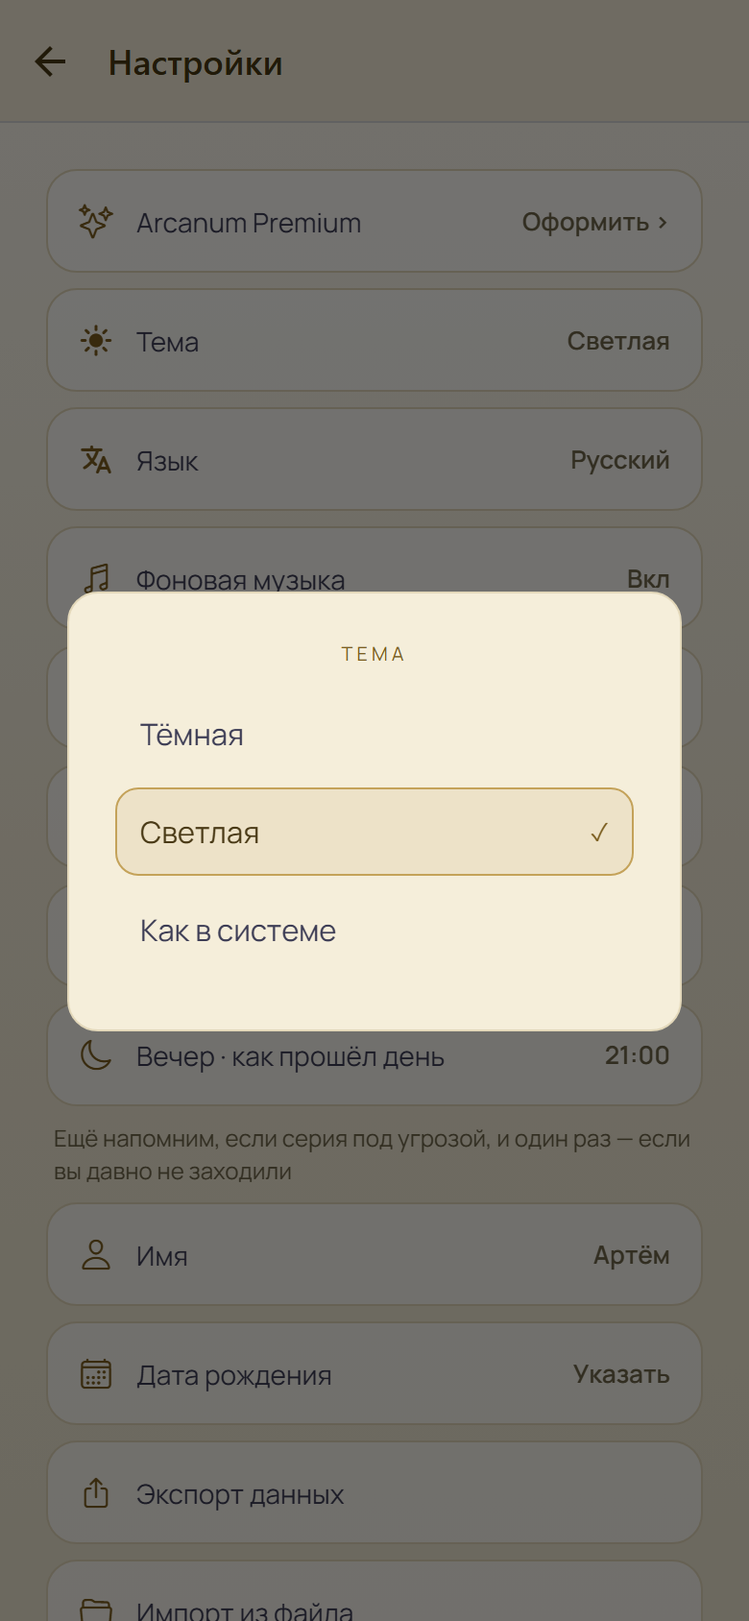
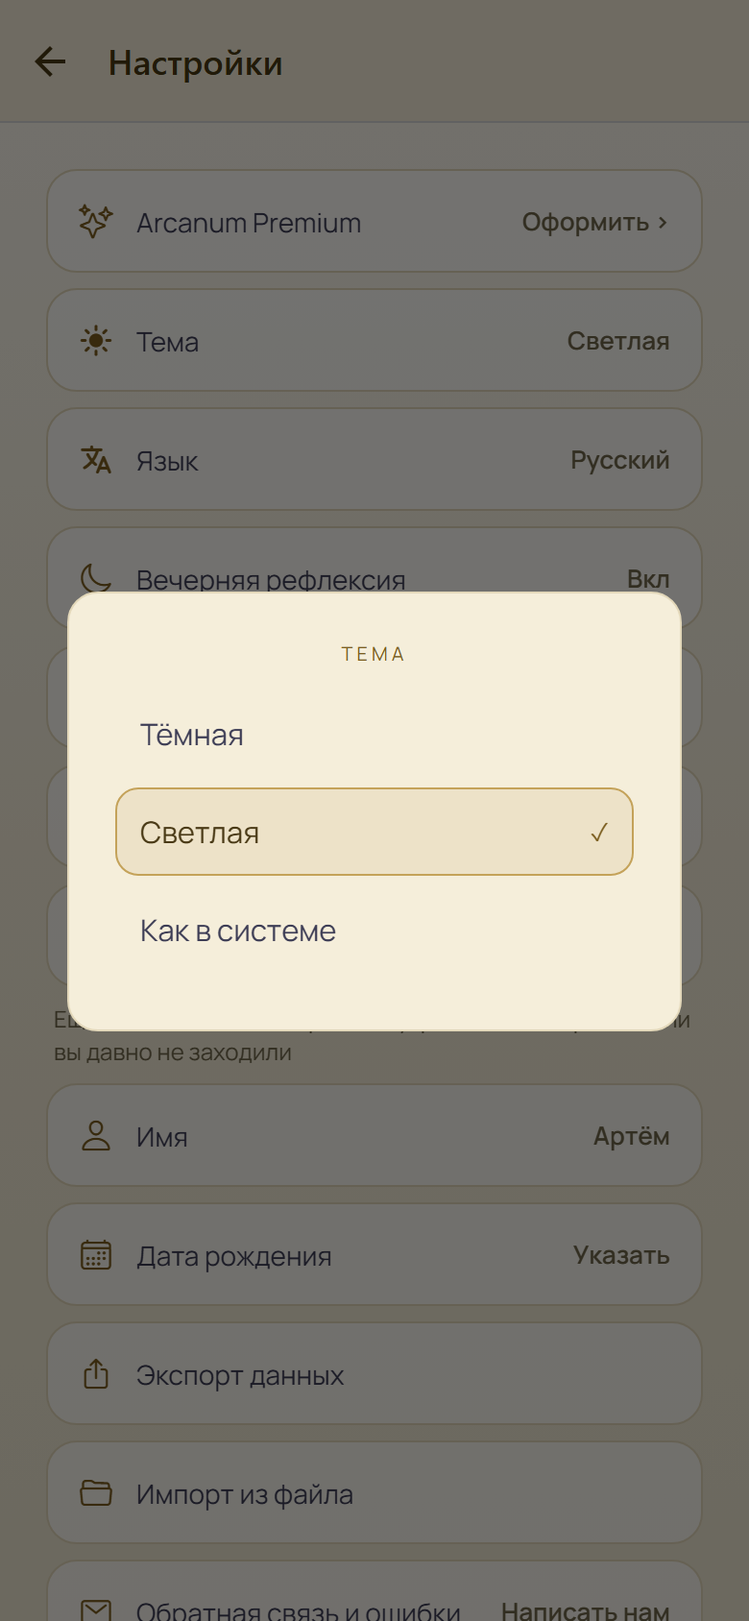
fix: фоновая музыка отключена в 1.0.1 до выбора новой мелодии (spec 74)

diff --git a/scripts/check_74_web.js b/scripts/check_74_web.js
@@ -1,13 +1,15 @@
-/* Веб-проверка выпуска 1.0.1 (спека 74, пункт 6а/6б): кнопка звука на «Учёбе», строка музыки
-   в настройках, тема «Как в системе», отсутствие строки «Оценить приложение» на вебе.
+/* Веб-проверка выпуска 1.0.1 (спека 74, пункт 6а/6б): кнопки звука на «Учёбе» и строки музыки
+   в настройках НЕТ (музыка выключена флагом MUSIC_ENABLED, дополнение 09.11), миграция 12 → 13,
+   тема «Как в системе», отсутствие строки «Оценить приложение» на вебе.
 
    Запуск (dev-сервер поднят ЗАНОВО с --clear, рецепт AGENTS.md):
      NODE_PATH="C:/Users/Artem/AppData/Local/npm-cache/_npx/705bc6b22212b352/node_modules" \
        node scripts/check_74_web.js
 
-   ⚠ Красный прогон обязателен — четыре мутации по очереди, каждая на свежем dev-сервере:
-     1) убрать `right={<MusicToggle />}` из app/(tabs)/index.tsx → роняет проверки 1;
-     2) дефолт `musicOn: false` в src/store/useApp.ts → роняет проверки 2 (и следом 3–4);
+   ⚠ Красный прогон обязателен — мутации по очереди, каждая на свежем dev-сервере:
+     1) `MUSIC_ENABLED = true` в src/lib/musicLogic.ts → роняет проверки 1 и 3 (кнопка и строка
+        появились);
+     2) дефолт `musicOn: false` в src/store/useApp.ts → роняет проверку 2;
      3) `resolveMode` в src/theme/resolveMode.ts игнорирует схему устройства → роняет проверки 5;
      4) `rateUrlFor` отдаёт адрес на вебе → роняет проверку 7.
    Сид — общий scripts/lib/seed72.js (version 12 без settings.musicOn: миграция 12 → 13
@@ -50,9 +52,6 @@ function check(name, ok, detail) {
     await page.waitForTimeout(1500);
   }
   const stored = () => page.evaluate(() => JSON.parse(localStorage.getItem('arcanum-app')));
-  const toggle = () => page.locator('[data-testid="music-toggle"]:visible').first();
-  // нет кнопки — null, а не таймаут на 30 с: сценарий обязан дойти до итога на сломанном коде
-  const checked = () => toggle().getAttribute('aria-checked', { timeout: 2000 }).catch(() => null);
   const body = () => page.locator('body').innerText();
   /** Фон экрана: computed backgroundColor элементов шириной с экран и высотой от 700 px (под шапкой стека корень экрана 390×780; фон rgb(242,242,242) — постоянная подложка навигатора). */
   const screenBg = () =>
@@ -71,15 +70,9 @@ function check(name, ok, detail) {
     await page.waitForTimeout(1500);
   };
 
-  console.log('\n=== 1. Кнопка звука на «Учёбе» ===');
+  console.log('\n=== 1. Кнопки звука на «Учёбе» нет ===');
   await open('/', seed());
-  const tg = toggle();
-  const present = (await tg.count()) > 0;
-  check('на «Учёбе» есть music-toggle', present);
-  if (present) {
-    const box = await tg.boundingBox();
-    check('зона нажатия 44×44', Math.round(box.width) === 44 && Math.round(box.height) === 44, JSON.stringify(box));
-  }
+  check('на «Учёбе» нет music-toggle', (await page.locator('[data-testid="music-toggle"]').count()) === 0);
   const titleBox = await page.getByText('Учёба', { exact: true }).first().boundingBox();
   const titleCentre = titleBox ? titleBox.x + titleBox.width / 2 : -1;
   check('заголовок по центру экрана (±1 px)', Math.abs(titleCentre - 195) <= 1, `центр ${titleCentre}`);
@@ -90,30 +83,18 @@ function check(name, ok, detail) {
   check('settings.musicOn === true', st2.state.settings && st2.state.settings.musicOn === true, JSON.stringify(st2.state.settings));
   check('консоль чиста после загрузки', consoleErrors.length === 0, consoleErrors.join(' | ').slice(0, 300));
 
-  console.log('\n=== 3. Клик по кнопке ===');
-  if (present) {
-    await tg.click({ force: true });
-    await page.waitForTimeout(500);
-  }
-  const st3 = await stored();
-  check('musicOn === false после клика', st3.state.settings.musicOn === false);
-  check('aria-checked="false"', (await checked()) === 'false');
+  console.log('\n=== 3. Строки музыки в настройках нет ===');
+  await openSettings();
+  const b3 = await body();
+  check('настройки открыты (есть строка «Тема»)', b3.includes('Тема'));
+  check('нет settings-music', (await page.locator('[data-testid="settings-music"]').count()) === 0);
+  check('в тексте экрана нет «Фоновая музыка»', !b3.includes('Фоновая музыка'));
+
+  console.log('\n=== 4. Музыка не просыпается после перезагрузки ===');
   await page.reload({ waitUntil: 'networkidle' });
   await page.waitForTimeout(1500);
-  check('после reload aria-checked="false"', (await checked()) === 'false');
-  check('после reload musicOn === false', (await stored()).state.settings.musicOn === false);
-
-  console.log('\n=== 4. Строка музыки в настройках ===');
-  await openSettings();
-  const row = page.locator('[data-testid="settings-music"]');
-  check('строка музыки показывает «Выкл»', (await row.innerText()).includes('Выкл'), await row.innerText());
-  await row.click({ force: true });
-  await page.waitForTimeout(500);
-  check('после клика строка показывает «Вкл»', (await row.innerText()).includes('Вкл'), await row.innerText());
-  check('musicOn === true в сторе', (await stored()).state.settings.musicOn === true);
-  await page.goto(`${BASE}/`, { waitUntil: 'networkidle' });
-  await page.waitForTimeout(1500);
-  check('на «Учёбе» aria-checked="true"', (await checked()) === 'true');
+  check('после reload строки музыки по-прежнему нет', (await page.locator('[data-testid="settings-music"]').count()) === 0);
+  check('musicOn не тронут (true)', (await stored()).state.settings.musicOn === true);
 
   console.log('\n=== 5. Тема «Как в системе» ===');
   await openSettings();
@@ -146,7 +127,7 @@ function check(name, ok, detail) {
   await openSettings();
   const b7 = await body();
   check('строки «Оценить приложение» на вебе нет', !b7.includes('Оценить приложение'));
-  check('настройки действительно открыты', b7.includes('Фоновая музыка'));
+  check('настройки действительно открыты', b7.includes('Тема'));
 
   console.log('\n=== 8. Консоль ===');
   check('консоль без ошибок на всём проходе', consoleErrors.length === 0, consoleErrors.join(' | ').slice(0, 400));

diff --git a/docs/design-reference.html b/docs/design-reference.html
@@ -829,7 +829,8 @@ border:.5px solid rgba(226,189,114,.3)}
     <div class="hrow fadeup d1">
       <div class="date">Воскресенье · 9 августа</div>
       <div class="h2">Учёба</div>
-      <div class="sndbtn" onclick="this.classList.toggle('off')"><svg viewBox="0 0 24 24"><path d="M4 9.5v5h3.5L12 18.5v-13L7.5 9.5z"/><path class="w1" d="M15.5 9.2a4 4 0 0 1 0 5.6"/><path class="w2" d="M16 9.5l4.5 5M20.5 9.5l-4.5 5"/></svg></div>
+      <!-- включить вместе с MUSIC_ENABLED, спека 74 -->
+      <div class="sndbtn" style="display:none" onclick="this.classList.toggle('off')"><svg viewBox="0 0 24 24"><path d="M4 9.5v5h3.5L12 18.5v-13L7.5 9.5z"/><path class="w1" d="M15.5 9.2a4 4 0 0 1 0 5.6"/><path class="w2" d="M16 9.5l4.5 5M20.5 9.5l-4.5 5"/></svg></div>
     </div>
     <div class="rule fadeup d2"><span>✦</span></div>
     <div class="pills fadeup d3">
@@ -1118,7 +1119,8 @@ border:.5px solid rgba(226,189,114,.3)}
         <span class="pl">Тема</span><span class="pv">Тёмная ›</span></div>
       <div class="prow"><svg viewBox="0 0 24 24"><circle cx="12" cy="12" r="8.5"/><path d="M3.5 12h17M12 3.5c2.6 2.4 2.6 14.6 0 17-2.6-2.4-2.6-14.6 0-17z"/></svg>
         <span class="pl" onclick="openLang()" style="cursor:pointer">Язык</span><span class="pv" onclick="openLang()" style="cursor:pointer">Русский ›</span></div>
-      <div class="prow"><svg viewBox="0 0 24 24"><path d="M9 18V6l10-2v12"/><circle cx="6.5" cy="18" r="2.5"/><circle cx="16.5" cy="16" r="2.5"/></svg>
+      <!-- включить вместе с MUSIC_ENABLED, спека 74 -->
+      <div class="prow" style="display:none"><svg viewBox="0 0 24 24"><path d="M9 18V6l10-2v12"/><circle cx="6.5" cy="18" r="2.5"/><circle cx="16.5" cy="16" r="2.5"/></svg>
         <span class="pl">Фоновая музыка</span><span class="pv">Вкл</span></div>
       <div class="prow"><svg viewBox="0 0 24 24"><path d="M12 3a9 9 0 1 0 9 9"/><path d="M12 7v5l3.5 2"/></svg>
         <span class="pl">Вечерняя рефлексия</span><span class="pv">Вкл</span></div>

diff --git a/src/lib/__tests__/music.test.ts b/src/lib/__tests__/music.test.ts
@@ -24,6 +24,8 @@ function load(): Loaded {
   const createAudioPlayer = jest.fn(() => player);
   jest.resetModules();
   jest.doMock('expo-audio', () => ({ createAudioPlayer, setAudioModeAsync }));
+  // флаг включён: проверяем сам плеер, а не выключатель (он — в отдельном тесте ниже)
+  jest.doMock('../musicLogic', () => ({ ...jest.requireActual('../musicLogic'), MUSIC_ENABLED: true }));
   const music: typeof import('../music') = require('../music');
   return { music, player, setAudioModeAsync, createAudioPlayer };
 }
@@ -35,6 +37,23 @@ beforeEach(() => {
 afterEach(() => {
   jest.useRealTimers();
   jest.dontMock('expo-audio');
+  jest.dontMock('../musicLogic');
+});
+
+describe('выключатель MUSIC_ENABLED', () => {
+  it('с настоящим флагом (false) startMusic не создаёт плеер, не трогает режим звука и не играет', () => {
+    const player: FakePlayer = { volume: 1, loop: false, play: jest.fn(), pause: jest.fn() };
+    const setAudioModeAsync = jest.fn(() => Promise.resolve());
+    const createAudioPlayer = jest.fn(() => player);
+    jest.resetModules();
+    jest.doMock('expo-audio', () => ({ createAudioPlayer, setAudioModeAsync }));
+    const music: typeof import('../music') = require('../music');
+    music.startMusic();
+    jest.advanceTimersByTime(5000);
+    expect(createAudioPlayer).not.toHaveBeenCalled();
+    expect(setAudioModeAsync).not.toHaveBeenCalled();
+    expect(player.play).not.toHaveBeenCalled();
+  });
 });
 
 describe('startMusic', () => {

diff --git a/src/lib/music.ts b/src/lib/music.ts
@@ -1,7 +1,14 @@
 // Фоновая музыка (спека 74): ЕДИНСТВЕННЫЙ файл проекта, который импортирует expo-audio
 // (страж — androidPermissions.test.ts). Веб-заглушка рядом — music.web.ts.
 // Один плеер на всё приложение, без заглушения по экранам (решение 8).
-import { FADE_IN_MS, FADE_OUT_MS, FADE_STEP_MS, MUSIC_VOLUME, fadeVolume } from './musicLogic';
+import {
+  FADE_IN_MS,
+  FADE_OUT_MS,
+  FADE_STEP_MS,
+  MUSIC_ENABLED,
+  MUSIC_VOLUME,
+  fadeVolume,
+} from './musicLogic';
 
 // Минимум того, что нужно от плеера, — не тянем типы пакета, чтобы модуль оставался ленивым.
 interface Player {
@@ -68,6 +75,8 @@ function fadeTo(p: Player, to: number, durationMs: number, done?: () => void): v
 
 /** Запускает музыку с плавным нарастанием. Позицию не сбрасывает. */
 export function startMusic(): void {
+  // единственные «ворота» выключателя: до них ничего не грузится и плеер не создаётся
+  if (!MUSIC_ENABLED) return;
   const p = ensurePlayer();
   if (!p) return;
   try {

diff --git a/app/settings.tsx b/app/settings.tsx
@@ -29,6 +29,7 @@ import {
 import { pickBackupText, shareBackup } from '../src/lib/backupIo';
 import { NAME_MAX } from '../src/lib/birthArcana';
 import { course } from '../src/lib/content';
+import { MUSIC_ENABLED } from '../src/lib/musicLogic';
 import { learnedCardIds, nextLessonId } from '../src/lib/courseProgress';
 import { formatFullDate, localDateISO } from '../src/lib/dates';
 import { deviceLocaleTags } from '../src/lib/deviceLang';
@@ -300,13 +301,15 @@ export default function SettingsScreen() {
             value={LANG_NAMES[lang]}
             onPress={() => setLangPicker(true)}
           />
-          <SettingsRow
-            testID="settings-music"
-            icon="musical-notes-outline"
-            label={tr('settings.music')}
-            value={musicOn ? tr('settings.on') : tr('settings.off')}
-            onPress={() => setMusicOn(!musicOn)}
-          />
+          {MUSIC_ENABLED && (
+            <SettingsRow
+              testID="settings-music"
+              icon="musical-notes-outline"
+              label={tr('settings.music')}
+              value={musicOn ? tr('settings.on') : tr('settings.off')}
+              onPress={() => setMusicOn(!musicOn)}
+            />
+          )}
         </FadeUp>
         <FadeUp index={2}>
           <SettingsRow

diff --git a/app/(tabs)/index.tsx b/app/(tabs)/index.tsx
@@ -9,6 +9,7 @@ import { DailyCardRow } from '../../src/components/DailyCardRow';
 import { FadeUp } from '../../src/components/FadeUp';
 import { FragmentPanel } from '../../src/components/FragmentPanel';
 import { MusicToggle } from '../../src/components/MusicToggle';
+import { MUSIC_ENABLED } from '../../src/lib/musicLogic';
 import { NextLessonCard } from '../../src/components/NextLessonCard';
 import { ReviewPanel } from '../../src/components/ReviewPanel';
 import { ScreenBg } from '../../src/components/ScreenBg';
@@ -69,7 +70,7 @@ export default function LearnScreen() {
         contentContainerStyle={{ paddingTop: insets.top + spacing.xl, paddingBottom: 120, paddingHorizontal: spacing.xl }}
         showsVerticalScrollIndicator={false}
       >
-        <ScreenHeader overline={formatEntryDate(localDateISO(now), lang, 'long').toUpperCase()} title={tr('home.title')} right={<MusicToggle />} />
+        <ScreenHeader overline={formatEntryDate(localDateISO(now), lang, 'long').toUpperCase()} title={tr('home.title')} right={MUSIC_ENABLED ? <MusicToggle /> : undefined} />
         <StatsPills index={1} />
         <FadeUp index={2}>
           <NextLessonCard summary={summary} state={state} lang={lang} onPress={onHero} />

diff --git a/scripts/shoot_74.js b/scripts/shoot_74.js
@@ -1,6 +1,6 @@
 /* Скриншоты изменённых экранов выпуска 1.0.1 для сверки с макетом (спека 74, пункт 6а):
-   «Учёба» с кнопкой звука, «Настройки» (строки темы и музыки), открытый пикер темы
-   с тремя пунктами — в обеих темах.
+   «Учёба» (шапка по центру, кнопки звука нет), «Настройки» (строка темы, строки музыки нет —
+   музыка выключена флагом MUSIC_ENABLED), открытый пикер темы с тремя пунктами — в обеих темах.
 
    Запуск (dev-сервер поднят заново с --clear):
      NODE_PATH="C:/Users/Artem/AppData/Local/npm-cache/_npx/705bc6b22212b352/node_modules" \

diff --git a/src/lib/musicLogic.ts b/src/lib/musicLogic.ts
@@ -1,6 +1,13 @@
 // Чистая логика фоновой музыки: когда играть и как плавно менять громкость.
 // Без импортов из react-native и expo — функции тестируются на Node.
 
+/**
+ * Главный выключатель фоновой музыки. Выключена, пока не выбрана новая мелодия
+ * (спека 74, дополнение 09.11). Чтобы включить: поставить true и заменить/пересоздать
+ * assets/audio/ambient.m4a.
+ */
+export const MUSIC_ENABLED = false;
+
 /** Громкость фоновой музыки (от 0 до 1). */
 export const MUSIC_VOLUME = 0.25;
 /** Длительность нарастания громкости при старте, мс. */

diff --git a/src/lib/__tests__/musicLogic.test.ts b/src/lib/__tests__/musicLogic.test.ts
@@ -2,6 +2,7 @@ import {
   FADE_IN_MS,
   FADE_OUT_MS,
   FADE_STEP_MS,
+  MUSIC_ENABLED,
   MUSIC_VOLUME,
   fadeVolume,
   nextInBackground,
@@ -16,6 +17,12 @@ describe('константы фоновой музыки', () => {
     expect(FADE_IN_MS).toBe(2500);
     expect(FADE_OUT_MS).toBe(400);
     expect(FADE_STEP_MS).toBe(50);
+  });
+});
+
+describe('выключатель музыки', () => {
+  it('в выпуске 1.0.1 музыка выключена (спека 74, дополнение 09.11)', () => {
+    expect(MUSIC_ENABLED).toBe(false);
   });
 });
 

diff --git a/AGENTS.md b/AGENTS.md
@@ -51,7 +51,7 @@ Read the exact versioned docs at https://docs.expo.dev/versions/v54.0.0/ before 
   - `python scripts/merge_quiz.py` — сливает ВСЕ черновики викторин `content/quiz-*.json` (по файлу на модуль: `quiz-m1-m2`, `quiz-m3`, `quiz-m4`, `quiz-m5`, `quiz-m6` — 160 вопросов на 15.08) в `content/course.json` (поля `quiz`/`quizStatus`, остальное не трогает). Файл на модуль потому, что статус у файла ОДИН на все его уроки: живи М1–М2 и М3 вместе, прогон откатывал бы reviewed в draft. Идемпотентен, валидирует схему до записи: ровно 5 вопросов и 3 варианта, `correct` в 0..2, двуязычность, `cardId` существует в колоде.
   - `python scripts/gen_card_images.py` — регенерирует `src/lib/cardImages.ts` после изменения списка карт.
   - `python scripts/gen_notification_icon.py` — рисует `assets/images/notification-icon.png` (иконка пуша Android, спека 55): белый силуэт эмблемы 96×96 на прозрачном, геометрия из `src/components/Emblem.tsx`, рендер в 4× и LANCZOS. Идемпотентен, запуск из корня без аргументов. ⚠ Файл руками не править: «all-white on transparent» (требование Google) проверяет САМ скрипт после записи — перечитывает PNG и падает с кодом 1, если непрозрачный пиксель не белый или доля непрозрачных вне 8–40 % (факт 25.7 %). Контракт-тест `notificationIcon.test.ts` держит только формат (IHDR: 96×96, depth 8, colorType 6) и связку «app.json → файл → канал `daily`»: декодировать PNG в jest без зависимостей не окупается. ⚠ Увидеть иконку можно ТОЛЬКО на сборке — в Expo Go уведомления показывает сам Expo Go со своей иконкой.
-  - `python scripts/gen_ambient.py [--dip]` — синтезирует фоновый трек `assets/audio/ambient.m4a` (спека 74): петля 128 с, 8 аккордов, мягкие ноты, круговая реверберация (хвост замкнут в петлю), AAC 128 кбит/с стерео 44.1 кГц. Запуск из корня; зависимости `pip install numpy` и `ffmpeg`/`ffprobe` в PATH (нет — понятное сообщение и код 1). Детерминирован (seed 8). Печатает «шов, наибольший шаг, размер»; эталон без `--dip`: шов 0.00245, шаг 0.02309 — другие числа значат, что звук изменился. ⚠ Файл руками не править: самопроверка после записи падает с кодом 1 и удаляет m4a, если скачок на стыке больше наибольшего шага, длительность не 128 ± 0.1 с или размер вне 0.5–4 МБ. `--dip` (план Б) плавно опускает громкость до нуля к стыку (cos² на 0.6 с с каждой стороны) — только если стык слышен в плеере; тогда проверка скачка не применяется. Контракт-тест `ambientAsset.test.ts` держит наличие файла, размер и контейнер MP4.
+  - `python scripts/gen_ambient.py [--dip]` — синтезирует фоновый трек `assets/audio/ambient.m4a` (спека 74): петля 128 с, 8 аккордов, мягкие ноты, круговая реверберация (хвост замкнут в петлю), AAC 128 кбит/с стерео 44.1 кГц. Запуск из корня; зависимости `pip install numpy` и `ffmpeg`/`ffprobe` в PATH (нет — понятное сообщение и код 1). Детерминирован (seed 8). Печатает «шов, наибольший шаг, размер»; эталон без `--dip`: шов 0.00245, шаг 0.02309 — другие числа значат, что звук изменился. ⚠ Файл руками не править: самопроверка после записи падает с кодом 1 и удаляет m4a, если скачок на стыке больше наибольшего шага, длительность не 128 ± 0.1 с или размер вне 0.5–4 МБ. `--dip` (план Б) плавно опускает громкость до нуля к стыку (cos² на 0.6 с с каждой стороны) — только если стык слышен в плеере; тогда проверка скачка не применяется. Контракт-тест `ambientAsset.test.ts` держит наличие файла, размер и контейнер MP4. Трек сейчас отключён флагом `MUSIC_ENABLED` (`src/lib/musicLogic.ts`) и отвергнут Артёмом после прослушивания на iPhone 09.11; включать только с новой мелодией (задача 74б).
   - `python scripts/content_stats.py` — отчёт о готовности контента ПО ЯЗЫКАМ (спека 28а): значения карт, слова карт, теория, викторины + статусы staging-файлов + карты с недописанным каноном. До 19.08 считал только `cards.json` и не различал языки. ⚠ В доках раньше значился как `npm run content:stats` — такого скрипта в `package.json` нет и не было.
   - `python scripts/set_status.py <статус>` — двигает статусы по workflow `todo → draft → reviewed → final` сразу в трёх файлах (значения карт, слова карт, теория, викторины). Есть `--only` (`cards|words|theory|quiz`), `--lang` и `--dry-run`. ⚠ Статус живёт ПО ЯЗЫКАМ (спека 28а): без `--lang` двигается канон `ru,en`, вычитанный испанский — `--lang es`. Двигаются только те языки, чей статус совпал с исходным, поэтому «ru reviewed, es draft» не схлопывается. ⚠ Статус НЕ выдаётся языку, у которого нет ни знака текста, — иначе `--lang es` на непереведённом корпусе проставил бы испанский статус всем 1100 единицам, а отчёт готовности отрапортовал бы «готово 100%» при нуле переводов (находка финального ревью 19.08); пропущенные единицы скрипт называет числом. Движение НАЗАД по workflow требует явного `--allow-back` (редактор отозвал вычитку). ⚠ Викторинам статус правится в ДВУХ местах (черновик редактора и собранный course.json), иначе следующий прогон `merge_quiz.py` откатит его назад.
   - `python scripts/migrate_status_lang.py [--dry-run]` — ОДНОРАЗОВАЯ идемпотентная миграция статусов на пер-языковую схему (спека 28а, отработана 19.08). Оставлена в репо как исполняемая документация формы: пробегает все четыре хранилища статуса разом. ⚠ Ключ `wordsStatus` кладётся ровно туда, куда его ставит `build_cards.py` (сразу после `search`) — иначе следующая пересборка колоды даёт дифф на 312 строк чистой перестановки.

diff --git a/docs/backlog.md b/docs/backlog.md
@@ -1648,10 +1648,15 @@ Push — после настройки remote (отложено решением
       4.3(b), спека 69). Пробный скрипт и выбранные треки — `.superpowers/sdd/74-release-1-0-1/`
       (вне git). Спека `docs/specs/74-release-1-0-1.md` — **согласована 09.11**; план —
       `docs/plans/74-release-1-0-1.md` (написан 09.11, реализация не начата); ветка `feat/74-release-1-0-1`.
+      **Дополнение 09.11: Артём отверг трек после прослушивания на iPhone — музыка выключена флагом `MUSIC_ENABLED` в 1.0.1, код и настройка остаются (задача 74б).**
 - [x] **74а · Лунный календарь: на Android сетка ломалась на 6 колонок (09.11, найдено прогоном 74)** —
       на 411.43 dp (Pixel 7) 7 ячеек и 6 зазоров равнялись ширине ряда `flexWrap` впритык, float-погрешность
       выталкивала ряд, «ВС» уходило на вторую строку и все даты сдвигались на колонку. Ширина ячейки
       теперь `moonCellSize` (округление вниз до 0.01, тест на 10 ширинах). Входит в выпуск 1.0.1.
+- [ ] **74б · Фоновая музыка: новая мелодия и включение (заведена 09.11)** — Артём находит мелодию; лицензия
+      обязана разрешать коммерческое использование; затем заменить `assets/audio/ambient.m4a`, поставить
+      `MUSIC_ENABLED = true` в `src/lib/musicLogic.ts`, пройти лайв-проверку. Учесть: на Android режим
+      «вибро» музыку не глушит; решение «включена по умолчанию» перепринять заново.
 - [ ] **68 · Вычитка носителем хвостов es/pt — строки задач 53/54/59/62/53б/67/72 и страницы `site/`
       (заведена 28.08 ~23:10, Cowork; периметр расширен 19.09 задачей 72)** — после волны 28н
       (21.08) сессии написали ~25 UI-строк (`ob.disclaimer`, `about.*` включая `dataText`/
